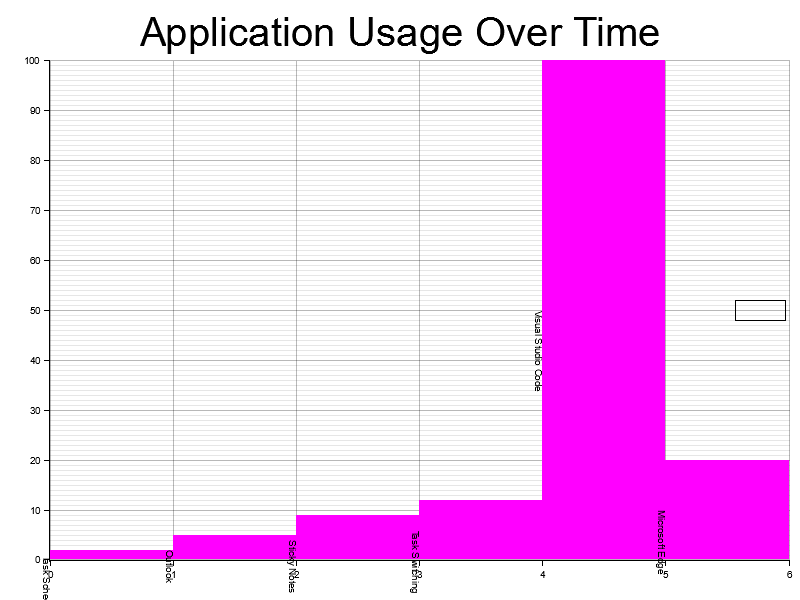
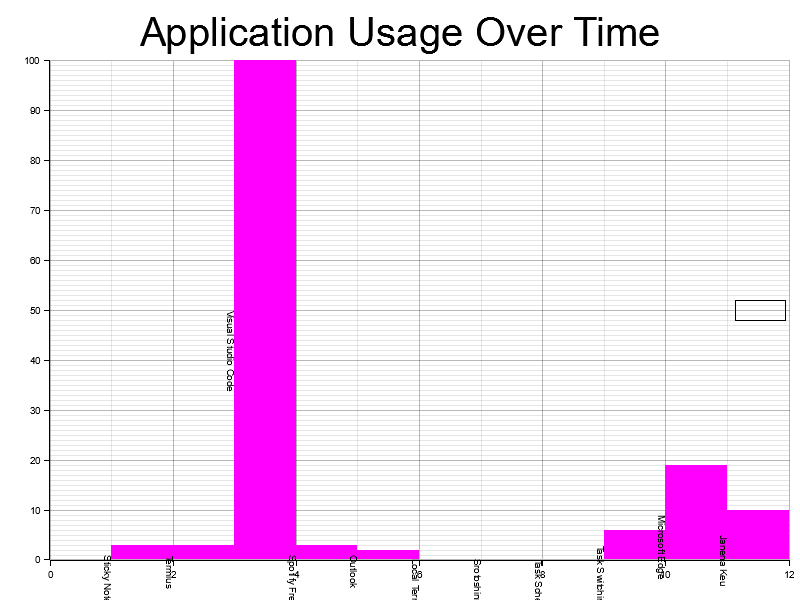
text transformation on app_name commented

Changed region(s): [[0.0625, 0.09, 1.0, 1.0], [0.0312, 0.93, 0.0625, 1.0], [0.875, 0.9, 0.9062, 0.96]]

diff --git a/src/main.rs b/src/main.rs
@@ -83,16 +83,11 @@ pub fn draw_usage_graph_from_db(conn: &Connection) {
     root.fill(&WHITE).unwrap();
 
     let max_duration = usage_data.values().max().unwrap_or(&0);
-
     let y_max = if *max_duration == 0 { 1 } else { *max_duration };
-
     let y_axis_max = 100;
 
     let mut chart = ChartBuilder::on(&root)
-        .caption(
-            "Application Usage Over Time",
-            ("sans-serif", 50).into_font(),
-        )
+        .caption("Application Usage Over Time", ("sans-serif", 50).into_font())
         .margin(10)
         .x_label_area_size(30)
         .y_label_area_size(40)
@@ -102,7 +97,6 @@ pub fn draw_usage_graph_from_db(conn: &Connection) {
     chart.configure_mesh().draw().unwrap();
 
     let colors = vec![&MAGENTA];
-
     let bar_width = 1;
     let default_font_size = 12;
 
@@ -128,7 +122,7 @@ pub fn draw_usage_graph_from_db(conn: &Connection) {
                     .into_font()
                     .style(FontStyle::Normal)
                     .color(text_color)
-                    .transform(FontTransform::Rotate90),
+                    // .transform(FontTransform::Rotate90),
             )))
             .unwrap();
     }
